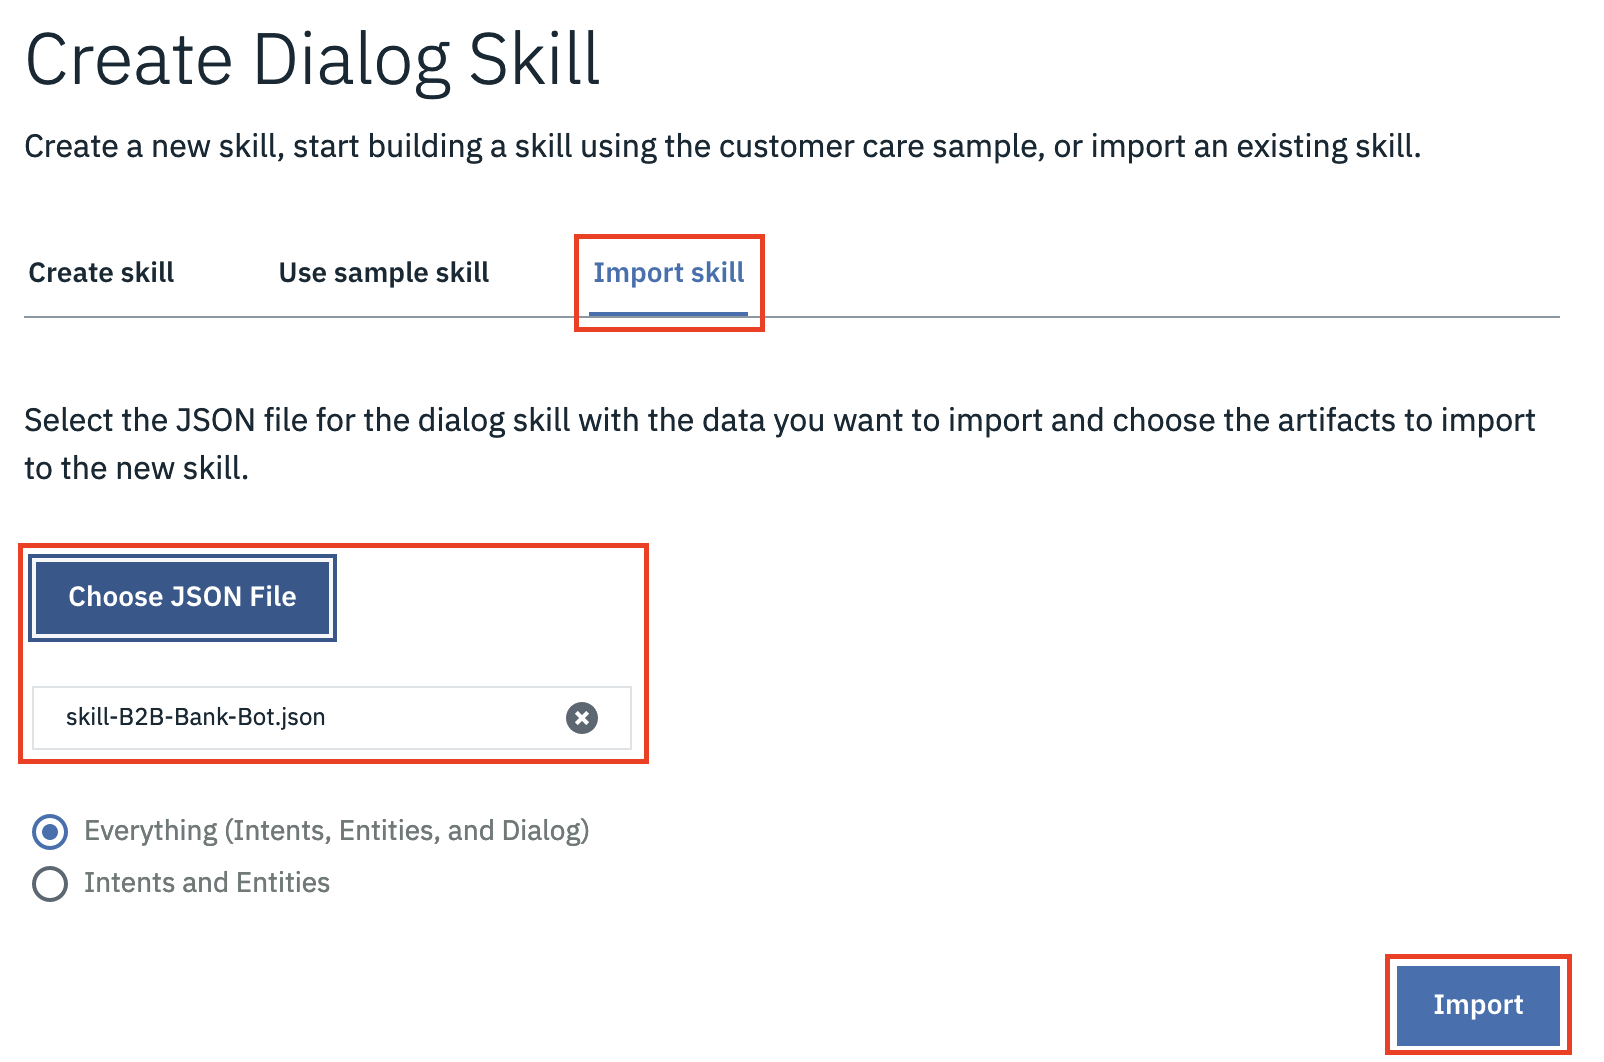
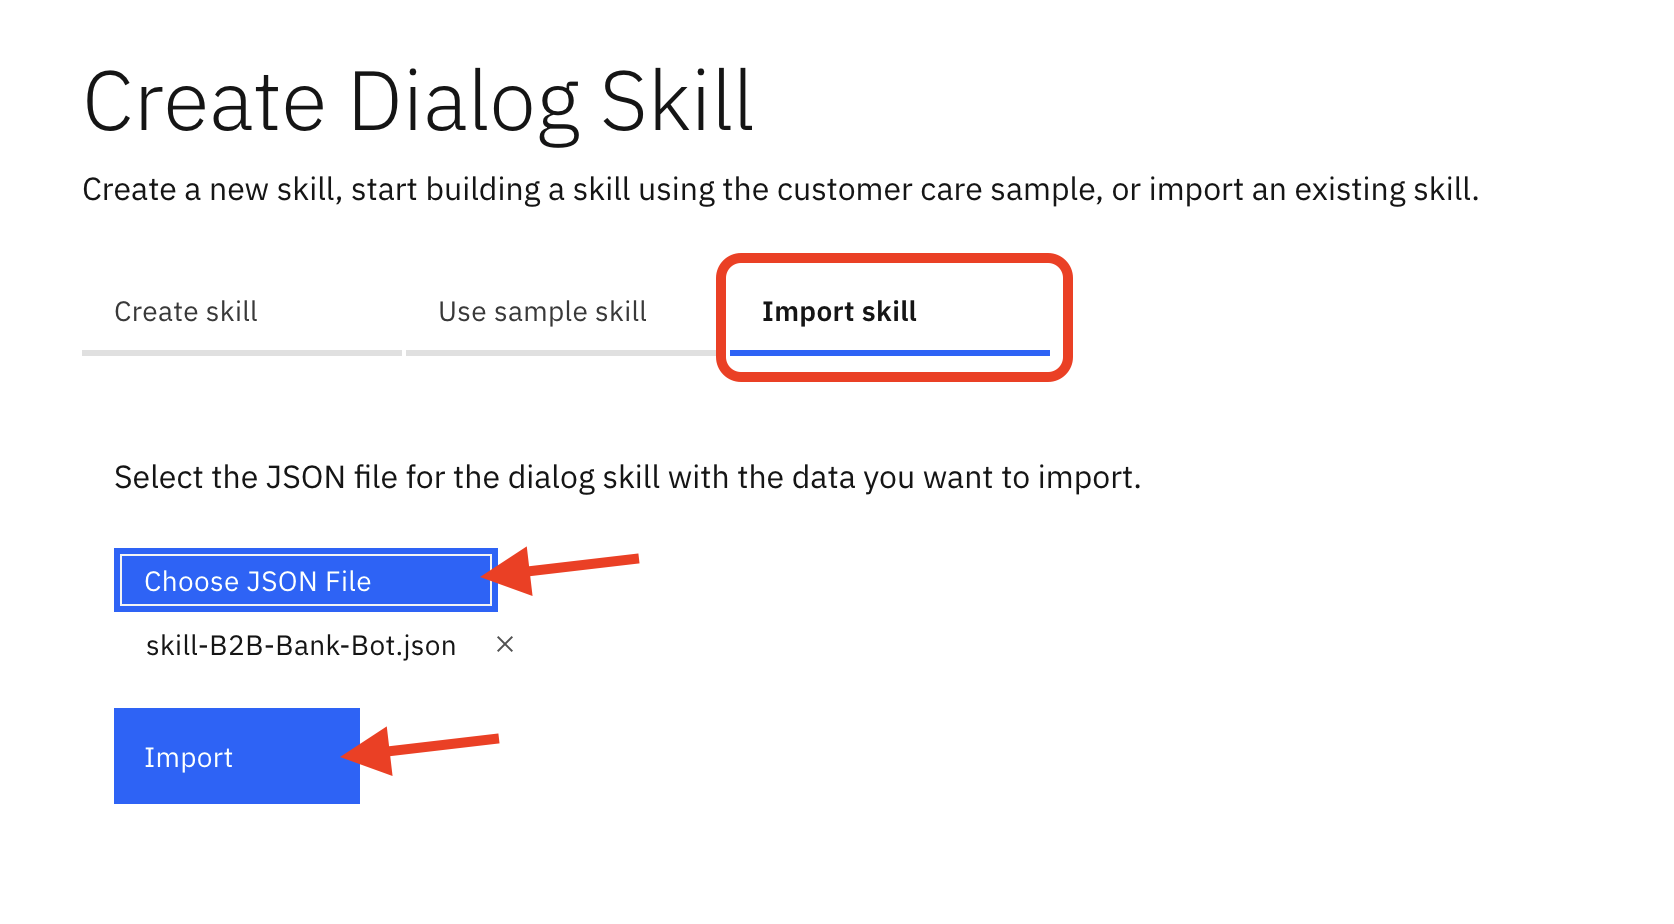
New

diff --git a/1-Basics/README.md b/1-Basics/README.md
@@ -46,13 +46,13 @@ Due to time constrains in this session we will import an existing skill. This is
 
 Download and save the skill json-file from this link: https://ibm.box.com/v/IBM-DBA-VA-BAW-RPA-skill
 
-There's an `Import Skill` option available whenever you create a new skill - it will be useful when you are backing up, exchanging skills, etc. Find the downloaded .json file in your computer and choose to import Everything.
+There's an `Import Skill` option available whenever you create a new skill - it will be useful when you are backing up, exchanging skills, etc. Find the downloaded .json file and use it (import) to create a new dialog skill as shown in the pictures below.
 
-![](./images/va_create_skill.png)
+![](./images/va_create_skil.png)
 
-![](./images/selectLite.png)
+![](./images/select_dialog_skill.png)
 
-![](./images/import_skill_new.png)
+![](./images/import_skill.png)
 
 You will be directed to the chatbot content.
 
